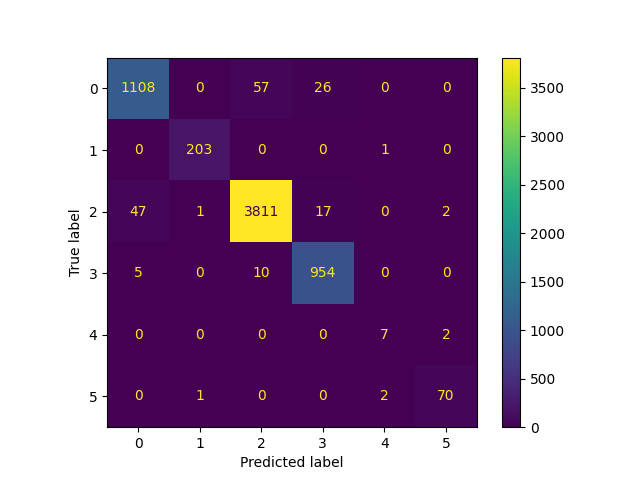
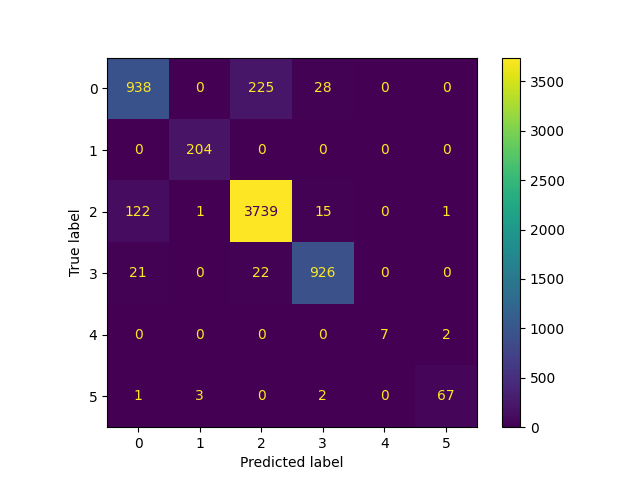
Clusterization change (#7)
* Clusterization small fixes

* Change clusters' descriptions

* Minor changes to Raport 2.

* Summary finished

* Minor fixes

* Fixed tables

* List fix

* Fix minor markdown issues

* Fix typo

---------

diff --git a/main.py b/main.py
@@ -5,7 +5,7 @@ from model.showcase import clusterize_and_classify, group_and_classify
 def main():
     clusterize_and_classify()
 
-    group_and_classify()
+    #group_and_classify()
 
 
 if __name__ == "__main__":
